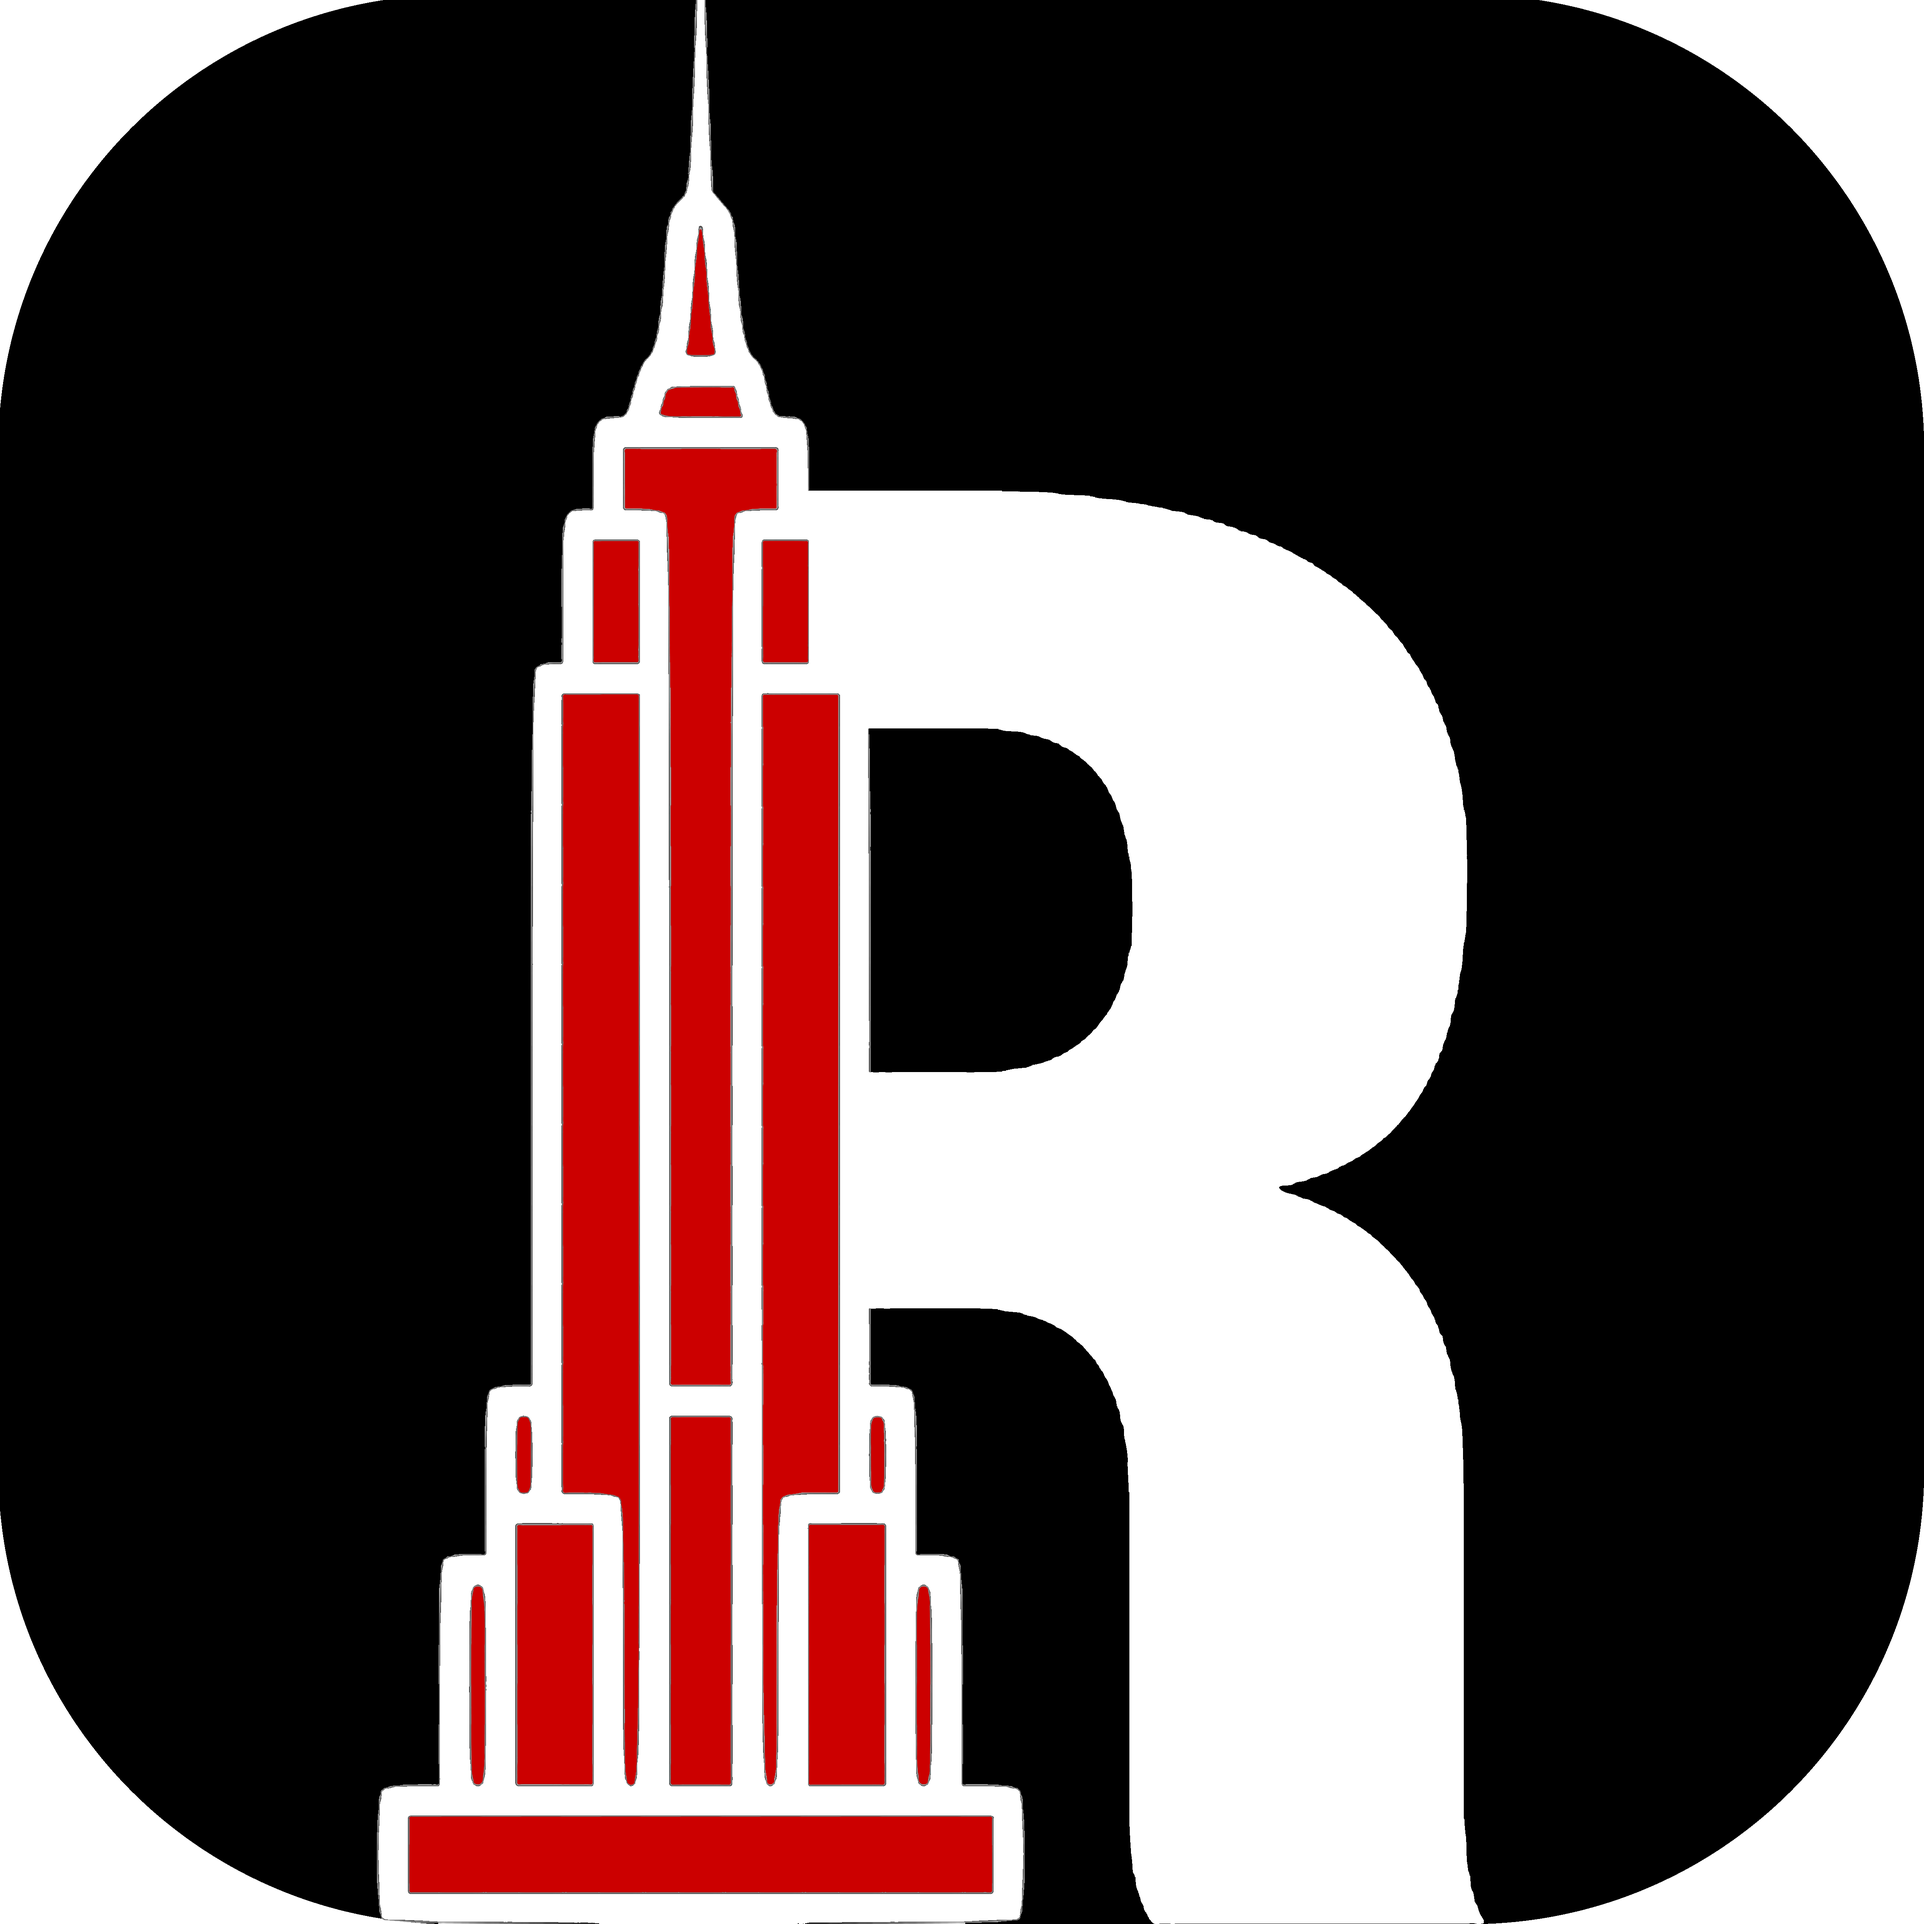
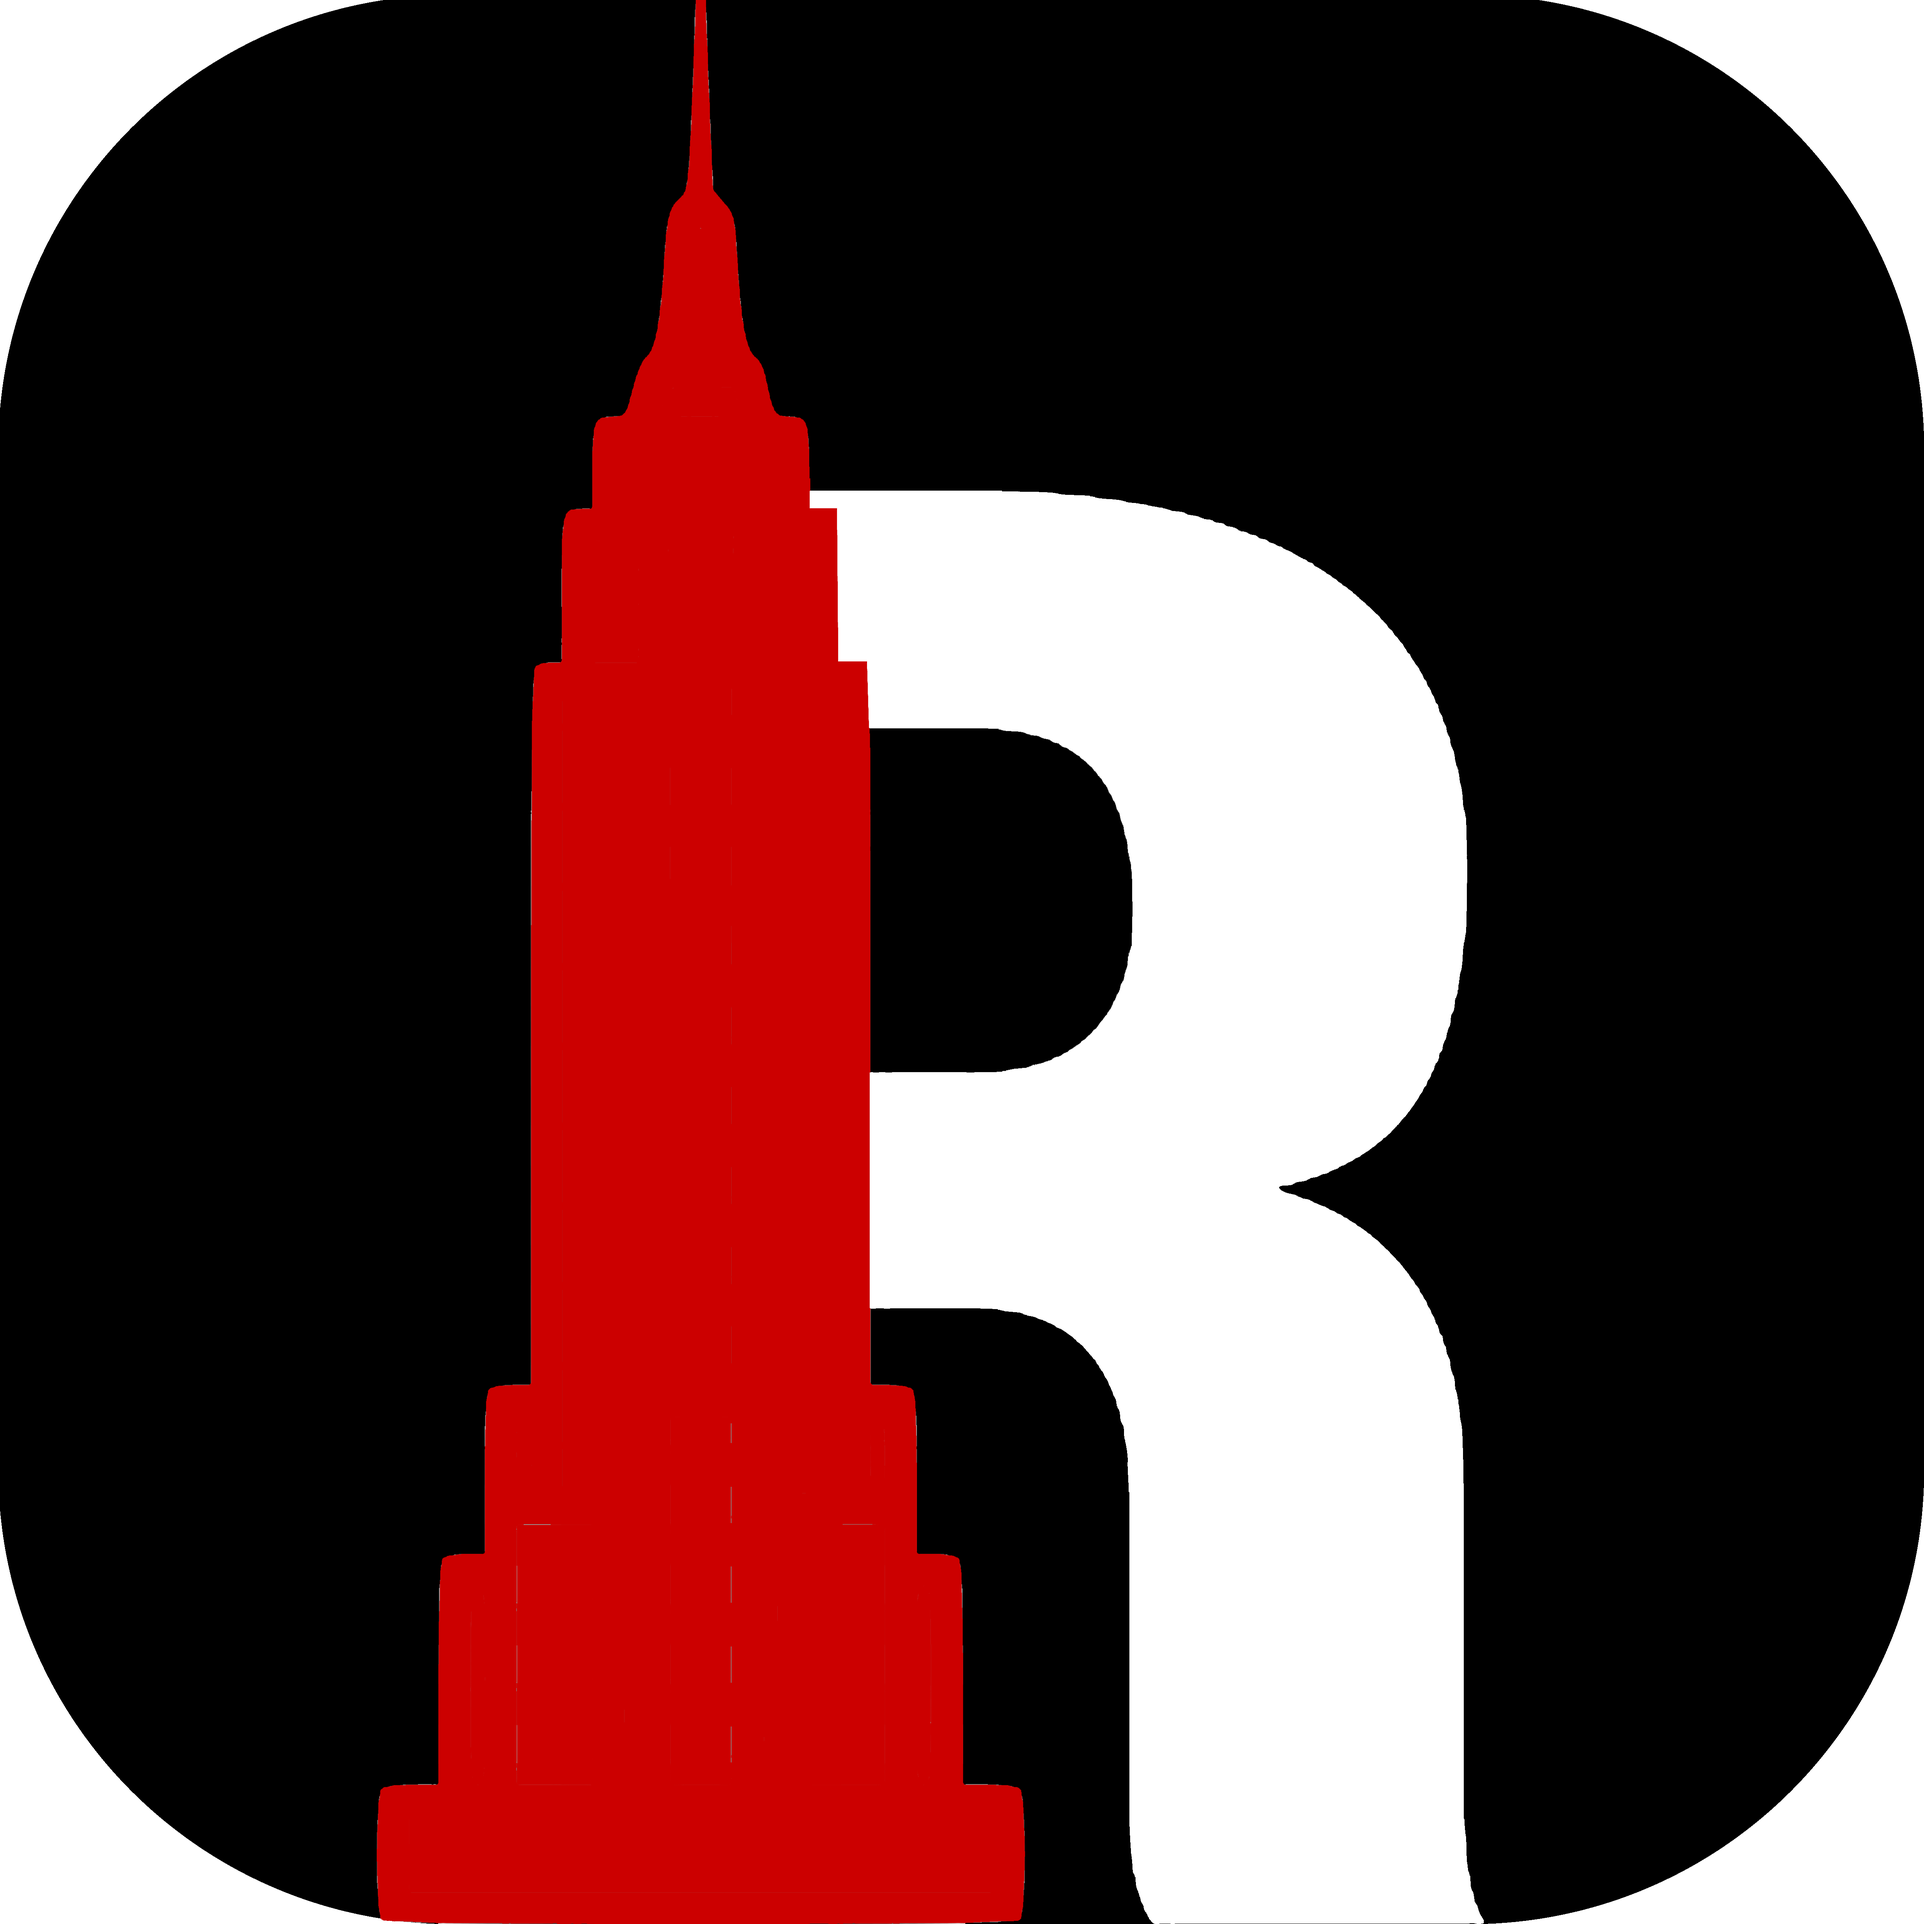
Ajout des ombres sur certains éléments de l'affichage et modification de l'icône de l'application.

Changed region(s): [[0.1872, 0.0, 0.5304, 1.0]]

diff --git a/branches/ReasArch/ReasArch/Batiment.xaml b/branches/ReasArch/ReasArch/Batiment.xaml
@@ -32,16 +32,32 @@
                 <RowDefinition Height="3*"/>
                 <RowDefinition />
             </Grid.RowDefinitions>
-            <Image x:Name="IMGBatPrincipale"      Source="img/empire_state_building.jpg"/>
+            <Image x:Name="IMGBatPrincipale"      Source="img/empire_state_building.jpg">
+                <Image.BitmapEffect>
+                    <DropShadowBitmapEffect Color="Black" Direction="0" ShadowDepth="0"/>
+                </Image.BitmapEffect>
+            </Image>
             <Grid Grid.Row="1">
                 <Grid.ColumnDefinitions>
                     <ColumnDefinition/>
                     <ColumnDefinition/>
                     <ColumnDefinition/>
                 </Grid.ColumnDefinitions>
-                <Image x:Name="IMGBat1"     Source="img/architecte empire state.png"/>
-                <Image Grid.Column="1" x:Name="IMGBat2"     Source="img/plan empire state.jpg"/>
-                <Image Grid.Column="2" x:Name="IMGBat3"     Source="img/interieur empire state.jpg"/>
+                <Image x:Name="IMGBat1"     Source="img/architecte empire state.png">
+                    <Image.BitmapEffect>
+                        <DropShadowBitmapEffect Color="Black" Direction="0" ShadowDepth="0"/>
+                    </Image.BitmapEffect>
+                </Image>
+                <Image Grid.Column="1" x:Name="IMGBat2"     Source="img/plan empire state.jpg">
+                    <Image.BitmapEffect>
+                        <DropShadowBitmapEffect Color="Black" Direction="0" ShadowDepth="0"/>
+                    </Image.BitmapEffect>
+                </Image>
+                <Image Grid.Column="2" x:Name="IMGBat3"     Source="img/interieur empire state.jpg">
+                    <Image.BitmapEffect>
+                        <DropShadowBitmapEffect Color="Black" Direction="0" ShadowDepth="0"/>
+                    </Image.BitmapEffect>
+                </Image>
             </Grid>
         </Grid>
         <Grid Grid.Column="1">
@@ -63,13 +79,13 @@
                 </Grid.ColumnDefinitions>
                 <Button>
                     <WrapPanel>
-                        <Image Source="img/icone_retour.png" Width="20"/>
+                        <Image Source="img/icone_retour_noir.png" Width="20"/>
                         <TextBlock Text="Retour"/>
                     </WrapPanel>
                 </Button>
                 <Button Grid.Column="1">
                     <WrapPanel>
-                        <Image Source="img/icone_modif.png" Width="20"/>
+                        <Image Source="img/icone_modif_noir.png" Width="20"/>
                         <TextBlock Text="Modifier"/>
                     </WrapPanel>
                 </Button>

diff --git a/branches/ReasArch/ReasArch/MainWindow.xaml b/branches/ReasArch/ReasArch/MainWindow.xaml
@@ -26,8 +26,16 @@
                     <RowDefinition/>
                 </Grid.RowDefinitions>
                 <Image Source="img/fond.jpg" Stretch="UniformToFill"/>
-                <TextBlock Grid.Row="1" Text="Bienvenue sur ReasArch !" VerticalAlignment="Center" HorizontalAlignment="Center" Foreground="White" FontSize="30" FontWeight="Bold"/>
-                <TextBlock Grid.Row="2" Text="L'application pour les explorateurs et les passionnés d'architecture !" VerticalAlignment="Top" HorizontalAlignment="Center" Foreground="White"/>
+                <TextBlock Grid.Row="1" Text="Bienvenue sur ReasArch !" VerticalAlignment="Center" HorizontalAlignment="Center" Foreground="White" FontSize="30" FontWeight="Bold">
+                    <TextBlock.BitmapEffect>
+                        <DropShadowBitmapEffect Color="Black" Direction="0" ShadowDepth="0"/>
+                    </TextBlock.BitmapEffect>
+                </TextBlock>
+                <TextBlock Grid.Row="2" Text="L'application pour les explorateurs et les passionnés d'architecture !" VerticalAlignment="Top" HorizontalAlignment="Center" Foreground="White">
+                    <TextBlock.BitmapEffect>
+                        <DropShadowBitmapEffect Color="Black" Direction="0" ShadowDepth="0"/>
+                    </TextBlock.BitmapEffect>
+                </TextBlock>
             </Grid>
         </ContentControl>
     </DockPanel>

diff --git a/branches/ReasArch/ReasArch/BoutonListeBatiments.xaml b/branches/ReasArch/ReasArch/BoutonListeBatiments.xaml
@@ -35,15 +35,19 @@
             <RowDefinition Height="3*"/>
             <RowDefinition/>
         </Grid.RowDefinitions>
-        <Image x:Name="Image" Width="auto" Grid.RowSpan="2" Grid.ColumnSpan="2" MaxHeight="190"/>
+        <Image x:Name="Image" Width="auto" Grid.RowSpan="2" Grid.ColumnSpan="2" MaxHeight="190">
+            <Image.BitmapEffect>
+                <DropShadowBitmapEffect Color="Black" Direction="0" ShadowDepth="0"/>
+            </Image.BitmapEffect>
+        </Image>
         <Button Grid.Column="2" Grid.ColumnSpan="2">
             <TextBlock x:Name="Titre" />
         </Button>
         <Button Grid.Column="2" Grid.Row="1">
-            <Image Source="img/icone_modif.png"/>
+            <Image Source="img/icone_modif_blanc.png"/>
         </Button>
         <Button Grid.Column="3" Grid.Row="1">
-            <Image Source="img/icone_supprimer.png"/>
+            <Image Source="img/icone_supprimer_blanc.png"/>
         </Button>
     </Grid>
 </UserControl>

diff --git a/branches/ReasArch/ReasArch/Ville.xaml b/branches/ReasArch/ReasArch/Ville.xaml
@@ -32,14 +32,14 @@
                 </Style>
             </Grid.Resources>
             <Button>
-                <Image Source="img/icone_retour.png"/>
+                <Image Source="img/icone_retour_blanc.png"/>
             </Button>
             <TextBlock Grid.Column="2" Text="New York City" Foreground="White" FontSize="35" FontWeight="Bold" TextWrapping="Wrap" TextAlignment="Center" VerticalAlignment="Center"/>
             <Button Grid.Column="3">
                 <Image Source="img/icone_ajouter_blanc.png"/>
             </Button>
             <Button Grid.Column="4">
-                <Image Source="img/icone_modif.png"/>
+                <Image Source="img/icone_modif_blanc.png"/>
             </Button>
         </Grid>
 

diff --git a/branches/ReasArch/ReasArch/BoutonListeVilles.xaml b/branches/ReasArch/ReasArch/BoutonListeVilles.xaml
@@ -24,8 +24,16 @@
     
     <Button Cursor="Hand">
         <StackPanel>
-            <Image x:Name="IMGVille"/>
-            <TextBlock x:Name="TBListeVille"/>
+            <Image x:Name="IMGVille">
+                <Image.BitmapEffect>
+                    <DropShadowBitmapEffect Color="Black" Direction="0" ShadowDepth="0" Softness=".9"/>
+                </Image.BitmapEffect>
+            </Image>
+            <TextBlock x:Name="TBListeVille">
+                <TextBlock.BitmapEffect>
+                    <DropShadowBitmapEffect Color="Black" Direction="0" ShadowDepth="0"/>
+                </TextBlock.BitmapEffect>
+            </TextBlock>
         </StackPanel>
     </Button>
     
